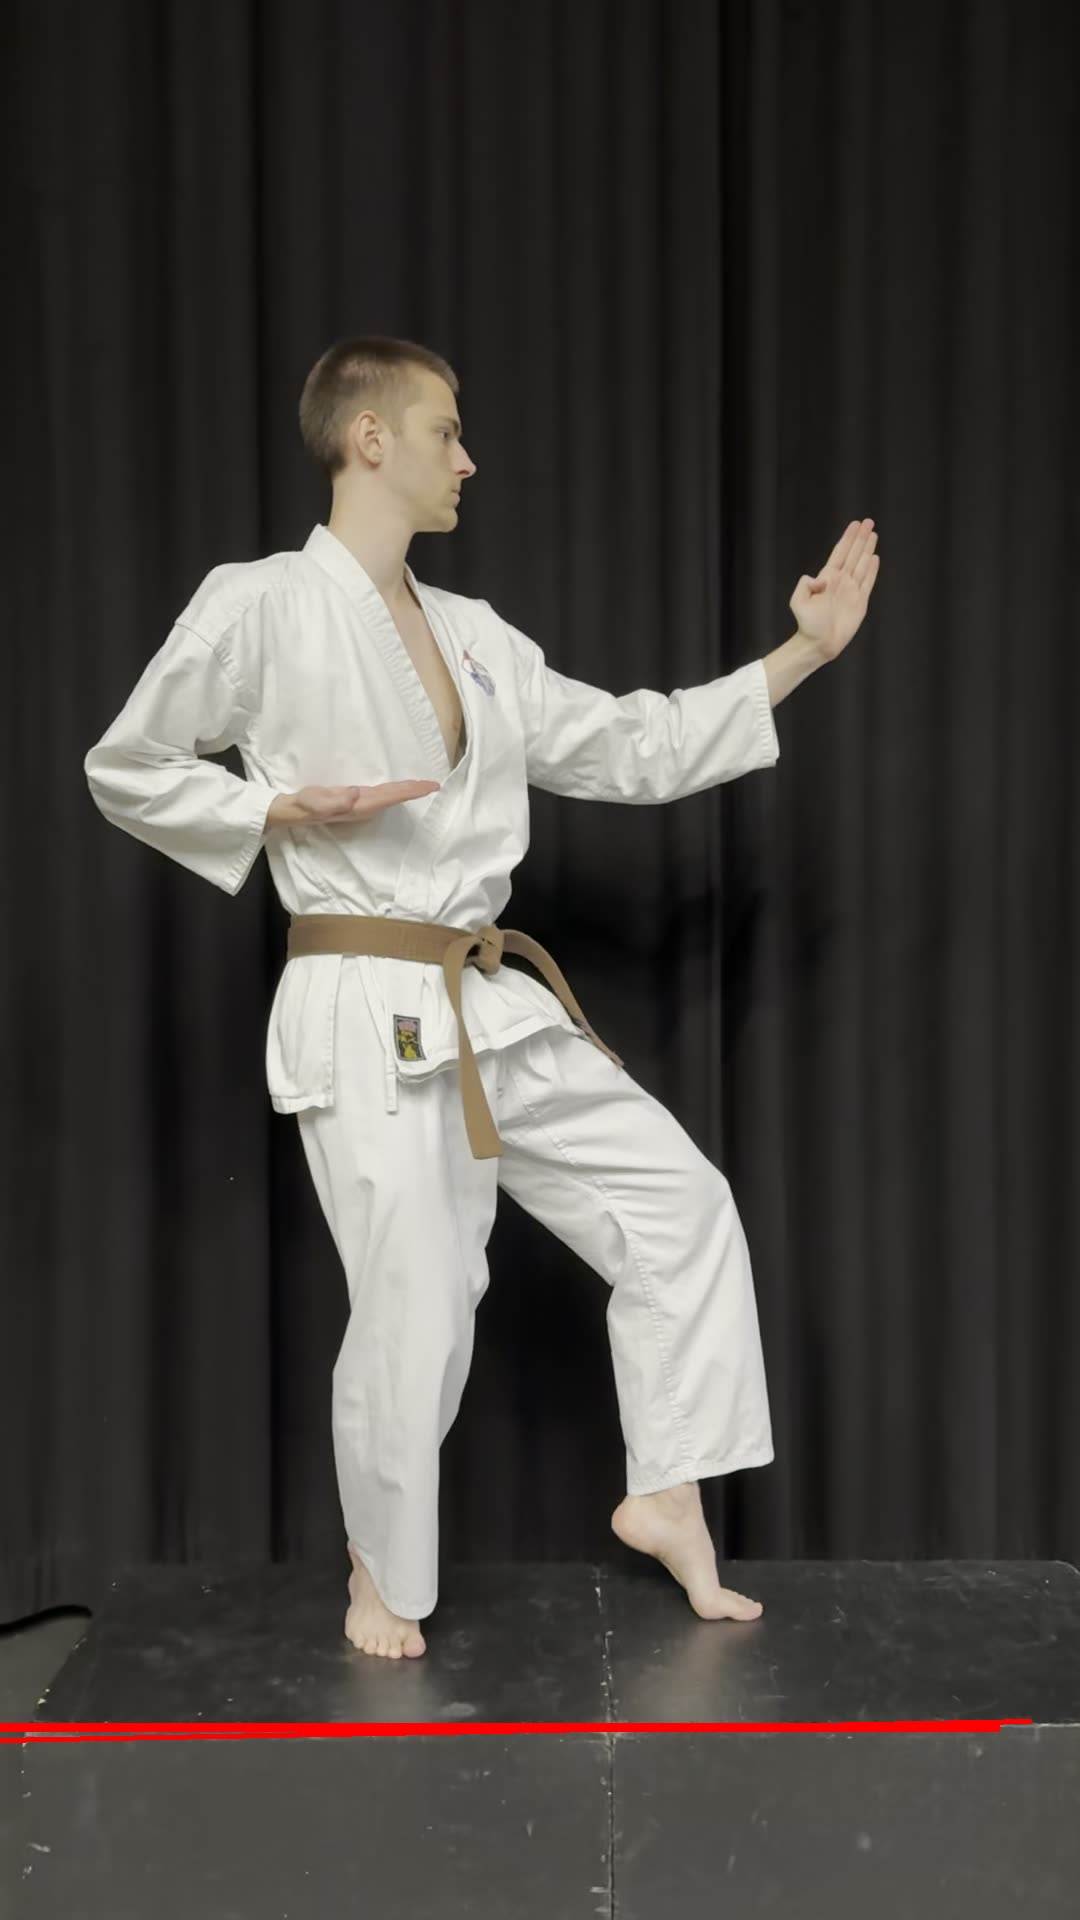
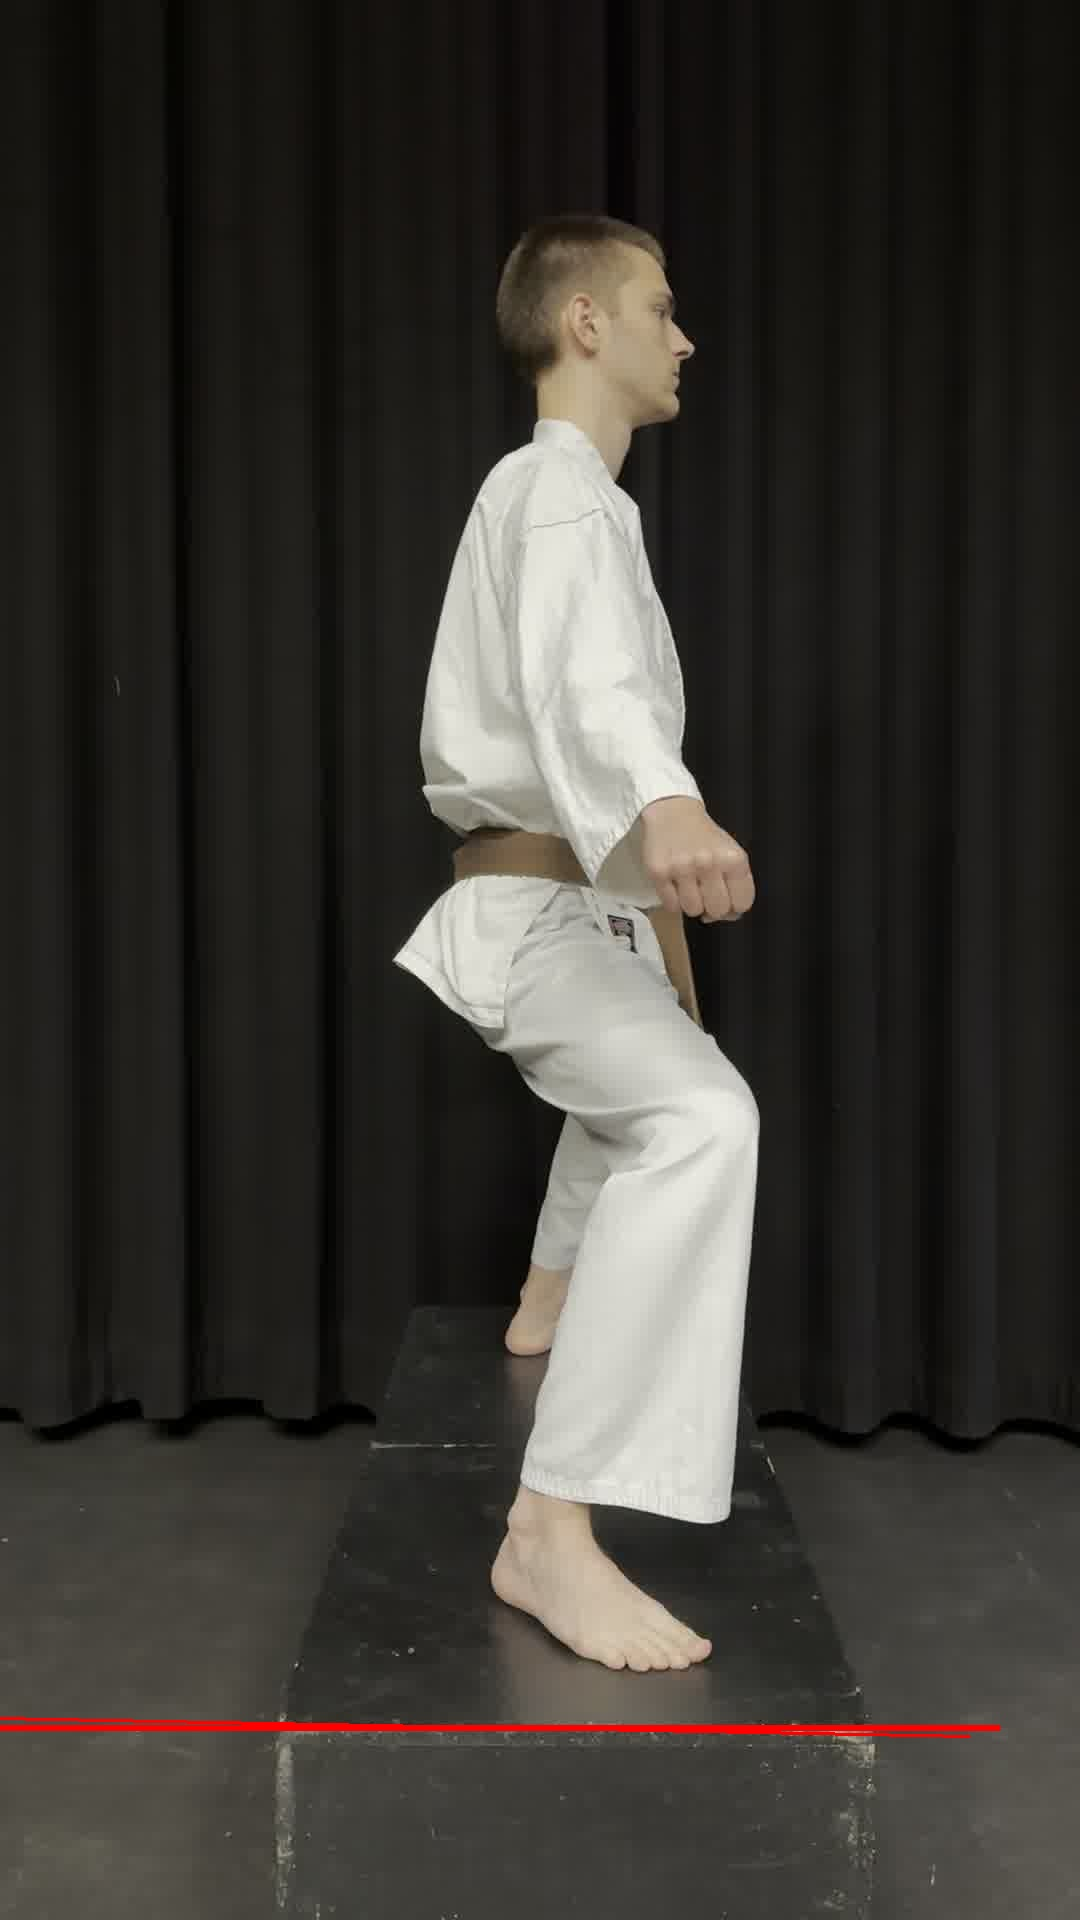
Cleaned up the code, implemented the both masking, hard coded the blur and implemented hough lines and lastly changed the esc key thingie

diff --git a/code/voetenmasker.py b/code/voetenmasker.py
@@ -1,13 +1,20 @@
-import cv2
+import cv2 as cv
 import numpy as np
-
-img = cv2.imread('/Users/slashure/Documents/Karate stands test fotos/Shiko Dachi/ezgif-64f0cbd5682587da-jpg/ezgif-frame-009.jpg')
-gray = cv2.cvtColor(img,cv2.COLOR_BGR2GRAY)
-edges = cv2.Canny(gray,50,150,apertureSize = 3)
-minLineLength = 100
-maxLineGap = 10
-lines = cv2.HoughLinesP(edges,1,np.pi/180,100,minLineLength,maxLineGap)
-for x1,y1,x2,y2 in lines[0]:
-    cv2.line(img,(x1,y1),(x2,y2),(0,255,0),2)
-
-cv2.imwrite('houghlines5.jpg',img)
+ 
+img = cv.imread(cv.samples.findFile('/Users/slashure/Downloads/Pasted 2026-10-12 at 1.29.32 PM.png'))
+gray = cv.cvtColor(img,cv.COLOR_BGR2GRAY)
+edges = cv.Canny(gray,50,150,apertureSize = 3)
+lines = cv.HoughLines(edges,1,np.pi/180,200)
+for line in lines:
+    rho,theta = line[0]
+    a = np.cos(theta)
+    b = np.sin(theta)
+    x0 = a*rho
+    y0 = b*rho
+    x1 = int(x0 + 1000*(-b))
+    y1 = int(y0 + 1000*(a))
+    x2 = int(x0 - 1000*(-b))
+    y2 = int(y0 - 1000*(a))
+ 
+    cv.line(img,(x1,y1),(x2,y2),(0,0,255),2)
+cv.imwrite('houghlines5.jpg',img)

diff --git a/code/Main_old.py b/code/Main_old.py
@@ -160,6 +160,19 @@ while True:
             break
 
 
+    lines = cv2.HoughLines(skel,1.1,np.pi/180,200)
+    for line in lines:
+        rho,theta = line[0]
+        a = np.cos(theta)
+        b = np.sin(theta)
+        x0 = a*rho
+        y0 = b*rho
+        x1 = int(x0 + 1000*(-b))
+        y1 = int(y0 + 1000*(a))
+        x2 = int(x0 - 1000*(-b))
+        y2 = int(y0 - 1000*(a))
+        
+        cv2.line(skel,(x1,y1),(x2,y2),(0,0,255),2)
 
 
    # cv2.imshow('skeleton', skel)
@@ -170,6 +183,7 @@ while True:
    # cv2.imshow('y_sobel', edges)
    # cv2.imshow('blur', blimage)
    # cv2.imshow('erosion', erosion)
+
 
     im_r = cv2.hconcat([skel,edges,])
     r_im_r = cv2.resize(im_r, (1920, 1080))
